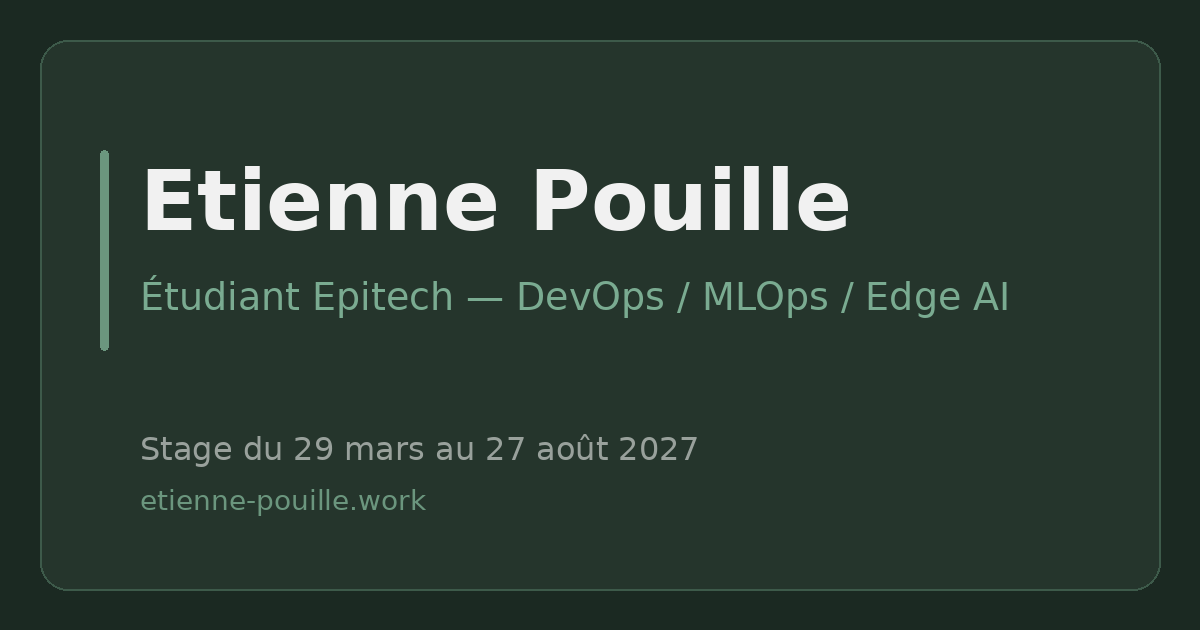
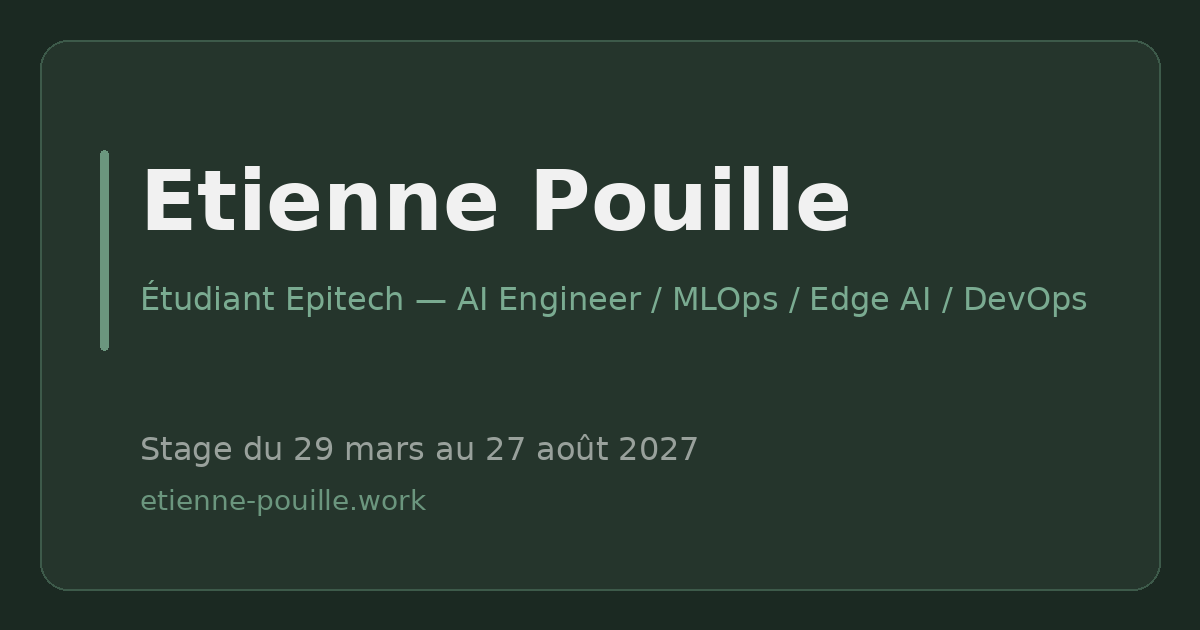
style: extend footer color into bottom overscroll area

Changed region(s): [[0.1233, 0.4524, 0.925, 0.5127]]

diff --git a/src/data/portfolio.js b/src/data/portfolio.js
@@ -1,5 +1,5 @@
 // ============================================================
-//  portfolio.js — Source de données unique du portfolio
+//  portfolio.js - Source de données unique du portfolio
 //  Pour mettre à jour le portfolio, modifiez uniquement ce fichier.
 // ============================================================
 
@@ -62,9 +62,9 @@ export const profileData = {
   name: 'Etienne POUILLE',
   photo: profileImg,
   cv: CV,
-  subtitle: 'ÉTUDIANT EPITECH - DevOps · MLOps · IA Engineer · Edge AI · FDE',
-  bio: `Étudiant en 3ème année à EPITECH Lille, je construis des infrastructures et des systèmes d'IA : pipelines CI/CD, LLM locaux avec Ollama, IA embarquée sur voiture autonome.
-Ancien stagiaire SysOps / DevOps chez Cyllene, je cherche un stage DevOps / MLOps / Edge AI du 29 mars au 27 août 2027, dans le Nord de la France.`,
+  subtitle: 'ÉTUDIANT EPITECH - AI Engineer · MLOps · Edge AI · DevOps · FDE',
+  bio: `Étudiant en 3ème année à EPITECH Lille, je construis des systèmes d'IA et l'infrastructure qui les fait tourner : LLM locaux avec Ollama, IA embarquée sur voiture autonome, pipelines CI/CD.
+Ancien stagiaire SysOps / DevOps chez Cyllene, je cherche un stage IA / MLOps / Edge AI / DevOps du 29 mars au 27 août 2027, dans le Nord de la France.`,
   interests: "Centres d'intérêt : sport (automobile, escalade, callisthénie), sciences, musique, dessin.",
   github: 'https://github.com/EtienneP-26',
   linkedin: 'https://www.linkedin.com/in/etienne-pouille-8b7814349/',
@@ -103,8 +103,8 @@ export const stagesData = [
       "Cette période correspond à une immersion complète en entreprise, idéale pour un projet ambitieux et une réelle intégration dans les équipes.",
     ],
     details: [
-      { label: 'Domaine', value: 'DevOps, MLOps, IA, Edge AI' },
-      { label: 'Localisation', value: `${stageAvailability.region} (${stageAvailability.cities}) — ${stageAvailability.remote}` },
+      { label: 'Domaine', value: 'IA, MLOps, Edge AI, DevOps' },
+      { label: 'Localisation', value: `${stageAvailability.region} (${stageAvailability.cities}) - ${stageAvailability.remote}` },
       { label: 'Rythme', value: '5 jours/semaine - temps plein' },
       { label: 'Type de contrat', value: 'Stage / CDD / CDI' },
     ],
@@ -123,7 +123,7 @@ export const parcoursData = [
     place: 'Lille',
     imageplace: 'EPITECH',
     logo: epitechLogo,
-    description: `Année <strong>en cours</strong>.<br/>Spécialisation visée : <strong>IA</strong> (principale), Maths & DevOps (secondaires).<br/>En cours : badge Google DeepMind — <em>AI Research Foundations</em>.<br/>Projets en cours :<br/>&emsp;- MyTorch : réseau de neurones recodé from scratch, utilisé pour jouer aux échecs.<br/>&emsp;- Bernstein : conception d'une infrastructure Kubernetes (module DevOps).<br/>&emsp;- IA Sensai : IA en ligne de commande, dans la veine d'ALF-CLI.<br/>&emsp;- Cryptographie : réimplémentation de XOR, AES, RSA et PGP.`,
+    description: `Année <strong>en cours</strong>.<br/>Spécialisation visée : <strong>IA</strong> (principale), Maths & DevOps (secondaires).<br/>En cours : badge Google DeepMind - <em>AI Research Foundations</em>.<br/>Projets en cours :<br/>&emsp;- MyTorch : réseau de neurones recodé from scratch, utilisé pour jouer aux échecs.<br/>&emsp;- Sensai : IA en ligne de commande, dans la veine d'ALF-CLI<br/>&emsp;- Bernstein : conception d'une infrastructure Kubernetes (module DevOps)..<br/>&emsp;- Cryptographie : réimplémentation de XOR, AES, RSA et PGP.`,
     tags: ['IA', 'Maths', 'DevOps'],
   },
   {
@@ -271,7 +271,7 @@ export const projectsData = [
     description: "Plugin Claude Code pour faciliter le développement avec l'IA : règles de dev et modes de travail (l'IA comme mentor, ou en autonomie avec orchestrateur et sous-agents), plus des mods Claude Code. Inclut des garde-fous (hook git, scan des manques d'un projet, audit).",
     tags: ['IA', 'Claude Code', 'Agents'],
     status: 'en-cours',
-    statusLabel: 'En cours — Perso',
+    statusLabel: 'En cours - Perso',
     repo: 'https://github.com/EtienneP-26/Noctia',
   },
   {
@@ -281,7 +281,7 @@ export const projectsData = [
     description: "Moteur agentique perso (ALF) connecté aux APIs Ollama. Sous-composants : ALF-CLI (interface ligne de commande), ALF-UI (interface web, à venir).",
     tags: ['IA', 'Python', 'API'],
     status: 'en-cours',
-    statusLabel: 'En cours',
+    statusLabel: 'En cours - Perso',
     repo: 'https://github.com/EtienneP-26/ALF.git',
   },
   {
@@ -301,7 +301,7 @@ export const projectsData = [
     description: "Voiture quasi-autonome sur circuit (v1 : suivi d'une ligne blanche). En v2 (2026), ajout d'un LiDAR et d'une caméra 3D pour viser une conduite autonome dans tout type d'environnement. Rôle : construction physique et algorithmes embarqués.",
     tags: ['IA', 'Python', 'Câblage', 'Robotique'],
     status: 'en-cours',
-    statusLabel: 'En cours (v2) — EPITECH',
+    statusLabel: 'En cours (v2) - EPITECH',
     repo: null,
   },
   // {
@@ -310,7 +310,7 @@ export const projectsData = [
   //   description: "Projet du module DevOps : conception d'une infrastructure Kubernetes.",
   //   tags: ['DevOps', 'Kubernetes'],
   //   status: 'en-cours',
-  //   statusLabel: 'En cours — EPITECH',
+  //   statusLabel: 'En cours - EPITECH',
   //   repo: null,
   // },
   {
@@ -320,7 +320,7 @@ export const projectsData = [
     description: "Réseau de neurones recodé from scratch, utilisé ensuite pour jouer aux échecs.",
     tags: ['IA', 'Deep Learning'],
     status: 'en-cours',
-    statusLabel: 'En cours — EPITECH',
+    statusLabel: 'En cours - EPITECH',
     repo: null,
   },
   {
@@ -330,7 +330,7 @@ export const projectsData = [
     description: "Application de dessin pour Linux, écrite en Rust, avec support de tablette graphique. Née d'un projet EPITECH (recoder GIMP), réorientée vers le dessin.",
     tags: ['Rust', 'Linux', 'Graphisme'],
     status: 'en-cours',
-    statusLabel: 'En cours — Perso & EPITECH',
+    statusLabel: 'En cours - Perso & EPITECH',
     repo: 'https://github.com/EtienneP-26/RIMP',
   },
   // {
@@ -339,7 +339,7 @@ export const projectsData = [
   //   description: "Projet EPITECH d'IA en ligne de commande, dans la même veine qu'ALF-CLI.",
   //   tags: ['IA', 'Python'],
   //   status: 'en-cours',
-  //   statusLabel: 'En cours — EPITECH',
+  //   statusLabel: 'En cours - EPITECH',
   //   repo: null,
   // },
   // {
@@ -348,7 +348,7 @@ export const projectsData = [
   //   description: "Réimplémentation d'algorithmes de cryptographie : XOR, AES, RSA et PGP.",
   //   tags: ['Cryptographie'],
   //   status: 'en-cours',
-  //   statusLabel: 'En cours — EPITECH',
+  //   statusLabel: 'En cours - EPITECH',
   //   repo: null,
   // },
   {
@@ -357,16 +357,16 @@ export const projectsData = [
     description: "Modèle de Reinforcement Learning pour l'alunissage autonome d'un module spatial simulé.",
     tags: ['IA', 'Python', 'Reinforcement Learning'],
     status: 'termine',
-    statusLabel: 'Terminé — EPITECH',
+    statusLabel: 'Terminé - EPITECH',
     repo: null,
   },
   {
     title: 'MinIA',
     image: imgMinIA,
-    description: "Réimplémentation d'un petit LLM. Prochaine étape à définir — piste envisagée : extension vers le multimodal (texte → image).",
+    description: "Réimplémentation d'un petit LLM. Prochaine étape à définir - piste envisagée : extension vers le multimodal (texte → image).",
     tags: ['Python', 'AI', 'Maths'],
     status: 'en-exploration',
-    statusLabel: 'En exploration — Perso',
+    statusLabel: 'En exploration - Perso',
     repo: 'https://github.com/EtienneP-26/MinIA',
   },
   {
@@ -375,7 +375,7 @@ export const projectsData = [
     description: "Clustering non supervisé (8 groupes distincts) sur une base de symptômes patients + détection de tumeurs cérébrales par imagerie/NLP (partie réalisée par un coéquipier).",
     tags: ['IA', 'Python', 'Supervised', 'Unsupervised'],
     status: 'termine',
-    statusLabel: 'Terminé — EPITECH',
+    statusLabel: 'Terminé - EPITECH',
     repo: null,
   },
   {
@@ -384,7 +384,7 @@ export const projectsData = [
     description: "Doom-like en C avec CSFML (raycasting, 2.5D). Projet d'équipe Tek1.",
     tags: ['C', 'CSFML', 'Game Engine'],
     status: 'termine',
-    statusLabel: 'Terminé — EPITECH',
+    statusLabel: 'Terminé - EPITECH',
     repo: 'https://github.com/EtienneP-26/My-DOOM-FPS',
   },
   {
@@ -393,7 +393,7 @@ export const projectsData = [
     description: "Réimplémentation d'un shell Unix (parsing, redirections, pipes, builtins) en C, en plusieurs étapes individuelles puis en équipe.",
     tags: ['C', 'Unix', 'System'],
     status: 'termine',
-    statusLabel: 'Terminé — EPITECH',
+    statusLabel: 'Terminé - EPITECH',
     repo: 'https://github.com/EtienneP-26/mysh',
   },
   {
@@ -425,13 +425,13 @@ export const projectsData = [
   //   description: "Réimplémentation des fondamentaux de PyTorch (tenseurs, autograd) en Python puis en Rust.",
   //   tags: ['Python', 'Rust', 'Machine Learning'],
   //   status: 'en-cours',
-  //   statusLabel: 'En cours — EPITECH',
+  //   statusLabel: 'En cours - EPITECH',
   //   repo: null,
   // },
 ]
 
 // ============================================================
-//  SECTION ROADMAP — Prochainement
+//  SECTION ROADMAP - Prochainement
 // ============================================================
 export const roadmapData = [
   'Fine-tuning de modèles LLM (expérimentations)',

diff --git a/index.html b/index.html
@@ -4,25 +4,25 @@
     <meta charset="UTF-8" />
     <link rel="icon" type="image/svg+xml" href="/favicon.svg" />
     <meta name="viewport" content="width=device-width, initial-scale=1.0" />
-    <title>Etienne Pouille — Étudiant Epitech, DevOps / MLOps / Edge AI / IA Engineer / FDE</title>
-    <meta name="description" content="Étudiant en 3ème année à Epitech Lille, je cherche un stage du 29 mars au 27 août 2027 en DevOps, MLOps, IA, Edge AI, IA Engineer ou FDE, Nord de la France." />
+    <title>Etienne Pouille - Étudiant Epitech, AI Engineer / MLOps / Edge AI / DevOps</title>
+    <meta name="description" content="Étudiant en 3ème année à Epitech Lille, je cherche un stage du 29 mars au 27 août 2027 en IA / AI Engineer, MLOps, Edge AI, DevOps ou FDE, Nord de la France." />
     <meta name="theme-color" content="#1B2922" />
     <link rel="canonical" href="https://etienne-pouille.work/" />
 
     <meta property="og:type" content="website" />
     <meta property="og:locale" content="fr_FR" />
     <meta property="og:site_name" content="Etienne Pouille" />
-    <meta property="og:title" content="Etienne Pouille — Étudiant Epitech, DevOps / MLOps / Edge AI / IA Engineer / FDE" />
-    <meta property="og:description" content="Étudiant en 3ème année à Epitech Lille, je cherche un stage du 29 mars au 27 août 2027 en DevOps, MLOps, IA, Edge AI, IA Engineer ou FDE, Nord de la France." />
+    <meta property="og:title" content="Etienne Pouille - Étudiant Epitech, AI Engineer / MLOps / Edge AI / DevOps" />
+    <meta property="og:description" content="Étudiant en 3ème année à Epitech Lille, je cherche un stage du 29 mars au 27 août 2027 en IA / AI Engineer, MLOps, Edge AI, DevOps ou FDE, Nord de la France." />
     <meta property="og:url" content="https://etienne-pouille.work/" />
     <meta property="og:image" content="https://etienne-pouille.work/og-image.png" />
     <meta property="og:image:width" content="1200" />
     <meta property="og:image:height" content="630" />
-    <meta property="og:image:alt" content="Etienne Pouille — Étudiant Epitech, DevOps / MLOps / Edge AI" />
+    <meta property="og:image:alt" content="Etienne Pouille - Étudiant Epitech, AI Engineer / MLOps / Edge AI / DevOps" />
 
     <meta name="twitter:card" content="summary_large_image" />
-    <meta name="twitter:title" content="Etienne Pouille — Étudiant Epitech, DevOps / MLOps / Edge AI / IA Engineer / FDE" />
-    <meta name="twitter:description" content="Étudiant en 3ème année à Epitech Lille, je cherche un stage du 29 mars au 27 août 2027 en DevOps, MLOps, IA, Edge AI, IA Engineer ou FDE, Nord de la France." />
+    <meta name="twitter:title" content="Etienne Pouille - Étudiant Epitech, AI Engineer / MLOps / Edge AI / DevOps" />
+    <meta name="twitter:description" content="Étudiant en 3ème année à Epitech Lille, je cherche un stage du 29 mars au 27 août 2027 en IA / AI Engineer, MLOps, Edge AI, DevOps ou FDE, Nord de la France." />
     <meta name="twitter:url" content="https://etienne-pouille.work/" />
     <meta name="twitter:image" content="https://etienne-pouille.work/og-image.png" />
 
@@ -31,7 +31,7 @@
         "@context": "https://schema.org",
         "@type": "Person",
         "name": "Etienne Pouille",
-        "jobTitle": "Étudiant ingénieur — DevOps / MLOps / Edge AI / IA Engineer / FDE",
+        "jobTitle": "Étudiant ingénieur - AI Engineer / MLOps / Edge AI / DevOps / FDE",
         "alumniOf": {
           "@type": "CollegeOrUniversity",
           "name": "EPITECH",

diff --git a/src/Components/About/About.jsx b/src/Components/About/About.jsx
@@ -36,7 +36,7 @@ const SkillItem = ({ skill }) => {
   return (
     <div
       className={`bento-logo-item${isLearning ? ' learning' : ''}`}
-      title={`${skill.name} — ${levelLabel}`}
+      title={`${skill.name} - ${levelLabel}`}
     >
       <span className={`skill-badge level-${skill.level}`} aria-hidden="true" />
       {skill.img ? (
@@ -69,7 +69,7 @@ const About = () => {
         {/* ── BENTO GRID ── */}
         <div className="bento-grid">
 
-          {/* Cartes — Catégories techniques (2×2) */}
+          {/* Cartes - Catégories techniques (2×2) */}
           {skillsData.categories.map((category) => (
             <motion.div
               key={category.title}
@@ -90,7 +90,7 @@ const About = () => {
             </motion.div>
           ))}
 
-          {/* Carte — Soft Skills */}
+          {/* Carte - Soft Skills */}
           <motion.div
             className="bento-card bento-card-dark bento-full"
             variants={fadeIn}
@@ -111,7 +111,7 @@ const About = () => {
             </div>
           </motion.div>
 
-          {/* Carte 4 — Langues (full width) */}
+          {/* Carte 4 - Langues (full width) */}
           <motion.div
             className="bento-card bento-full"
             variants={fadeIn}

diff --git a/src/Components/Navbar/Navbar.css b/src/Components/Navbar/Navbar.css
@@ -1,5 +1,5 @@
 /* ========================================
-   SIDEBAR — Droite, icônes uniquement
+   SIDEBAR - Droite, icônes uniquement
    ======================================== */
 .sidebar {
   position: fixed;
@@ -161,7 +161,7 @@
 }
 
 /* ========================================
-   MOBILE — Sidebar masquée < 900px
+   MOBILE - Sidebar masquée < 900px
    ======================================== */
 @media (max-width: 900px) {
   .sidebar {

diff --git a/src/App.jsx b/src/App.jsx
@@ -18,7 +18,7 @@ const App = () => {
         <Projects />
         <Contacts />
         <footer>
-          <p>© 2026 Etienne POUILLE — Tous droits réservés.</p>
+          <p>© 2026 Etienne POUILLE - Tous droits réservés.</p>
         </footer>
       </main>
       <Navbar />

diff --git a/src/index.css b/src/index.css
@@ -6,6 +6,8 @@
 
 html {
   scroll-behavior: smooth;
+  /* Couleur visible au rebond du scroll : prolonge le footer */
+  background: var(--surface-dark);
 }
 
 body {

diff --git a/src/Components/Parcours/Parcours.css b/src/Components/Parcours/Parcours.css
@@ -130,7 +130,7 @@
   margin-bottom: 1.2rem;
 }
 
-/* Mini bento — tags row */
+/* Mini bento - tags row */
 .tc-bento {
   display: flex;
   flex-wrap: wrap;
